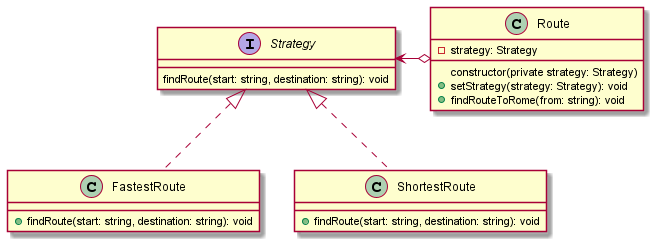
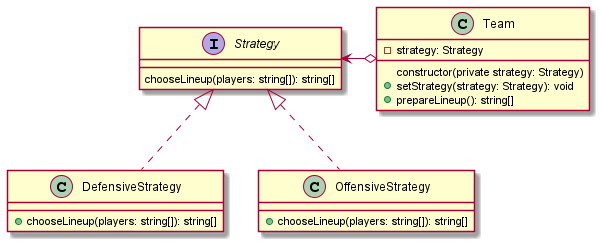
Update diagrams to real life examples

diff --git a/src/app/behavioral/strategy/defensive-strategy.class.ts b/src/app/behavioral/strategy/defensive-strategy.class.ts
@@ -1,7 +1,7 @@
 import { Strategy } from './strategy.interface';
 
 export class DefensiveStrategy implements Strategy {
-  public selectLineup(players: string[]): string[] {
+  public chooseLineup(players: string[]): string[] {
     const chosenPlayers = players.sort().reverse().slice(0, 2);
     console.warn(`according to defensive strategy: ${chosenPlayers.toString().replace(',', ' and ')}`);
     return chosenPlayers;

diff --git a/src/app/behavioral/strategy/offensive-strategy.class.ts b/src/app/behavioral/strategy/offensive-strategy.class.ts
@@ -1,7 +1,7 @@
 import { Strategy } from './strategy.interface';
 
 export class OffensiveStrategy implements Strategy {
-  public selectLineup(players: string[]): string[] {
+  public chooseLineup(players: string[]): string[] {
     const chosenPlayers = players.sort().slice(0, 2);
     console.error(`according to offensive strategy: ${chosenPlayers.toString().replace(',', ' and ')}`);
     return chosenPlayers;

diff --git a/src/app/behavioral/strategy/team.class.ts b/src/app/behavioral/strategy/team.class.ts
@@ -8,6 +8,6 @@ export class Team {
   }
 
   public prepareLineup(): string[] {
-    return this.strategy.selectLineup(['Tia', 'Rocket', 'Ahito']);
+    return this.strategy.chooseLineup(['Tia', 'Rocket', 'Ahito']);
   }
 }

diff --git a/src/app/behavioral/strategy/strategy.interface.ts b/src/app/behavioral/strategy/strategy.interface.ts
@@ -1,3 +1,3 @@
 export interface Strategy {
-  selectLineup(players: string[]): string[];
+  chooseLineup(players: string[]): string[];
 }
